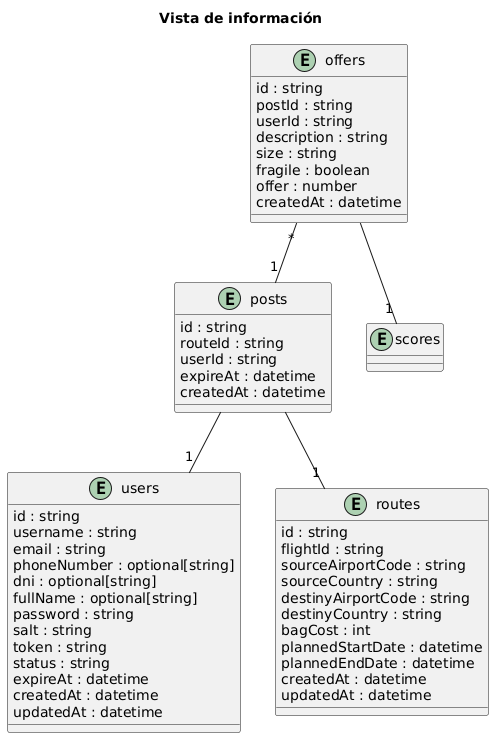
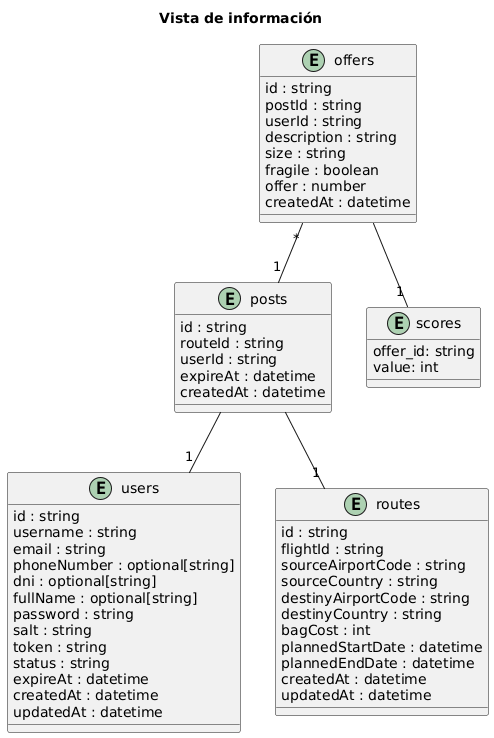
cambios finales a la documentación

diff --git a/docs/vistas_despliegue.md b/docs/vistas_despliegue.md
@@ -60,3 +60,29 @@ Rutas internas típicas: `/users/*`, `/routes/*`, `/posts/*`, `/offers/*`, `/sco
 - **AWS IAM / IRSA** – Permisos mínimos para Pods hacia servicios AWS (ECR/RDS/Secrets).
 - **Amazon CloudWatch** – Logs y métricas (y/o Prometheus/Grafana para métricas/trazas).
 - **AWS Certificate Manager (ACM)** – Certificados TLS para el Ingress/ALB.
+
+
+
+# Vista de Redes
+![Vista de redes](./diagrams/networks.png "Vista de despliegue")
+
+- **K8s con dominios lógicos (“networks”):** `users`, `posts`, `routes`, `offers`, `scores` y una **capa de APIs expuestas** (`rf003`, `rf004`, `rf005`).
+
+- **Exposición externa:** **único Ingress** (Nginx/ALB). Flujo:  
+  **Internet → Ingress → rf00x-app-service (HTTP :80) → pod rf00x_app → (interno) servicios de dominio**  
+  (`users_app`, `routes_app`, `posts_app`, `offers_app`, `scores_app`, todos como **ClusterIP**).
+
+- **Acceso a datos:** **una sola BD PostgreSQL (AWS RDS)** `platform_db`.  
+  Cada servicio accede **solo a sus tablas/esquema** (p. ej., `users.*`, `routes.*`, `posts.*`, `offers.*`, `scores.*`).  
+  **Sin llaves foráneas cruzadas ni joins** entre dominios; conexión mediante **Secrets**. *(Se eliminan los pods `*_db` y sus NodePorts.)*
+
+- **Imágenes y nube:** Contenedores publicados en **Amazon ECR**; los Pods hacen *pull* con **IAM/IRSA**. El clúster corre en **EKS**.
+
+- **Aislamiento y escalabilidad:** cada servicio se **despliega y escala** de forma independiente (HPA, requests/limits), manteniendo **propiedad de datos por dominio** y comunicación **HTTP/JSON** entre servicios.
+
+
+
+# Vista de información
+![Vista de despliegue](./diagrams/entities.png "Vista de despliegue")
+
+Modelo lógico de datos para la segunda iteración. Muestra entidades clave, atributos y relaciones.
